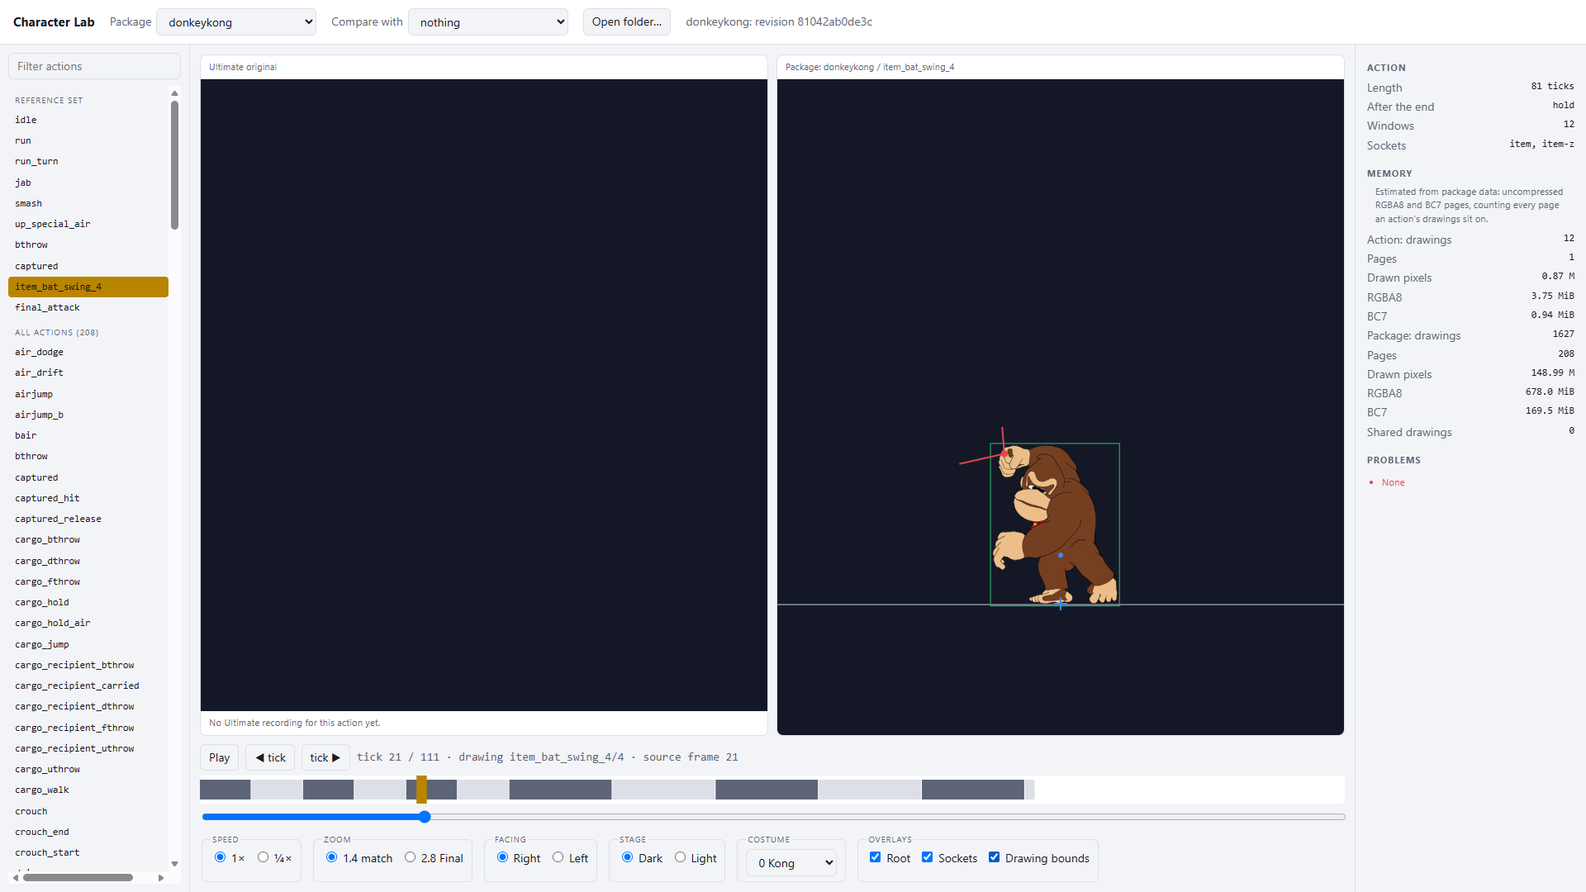
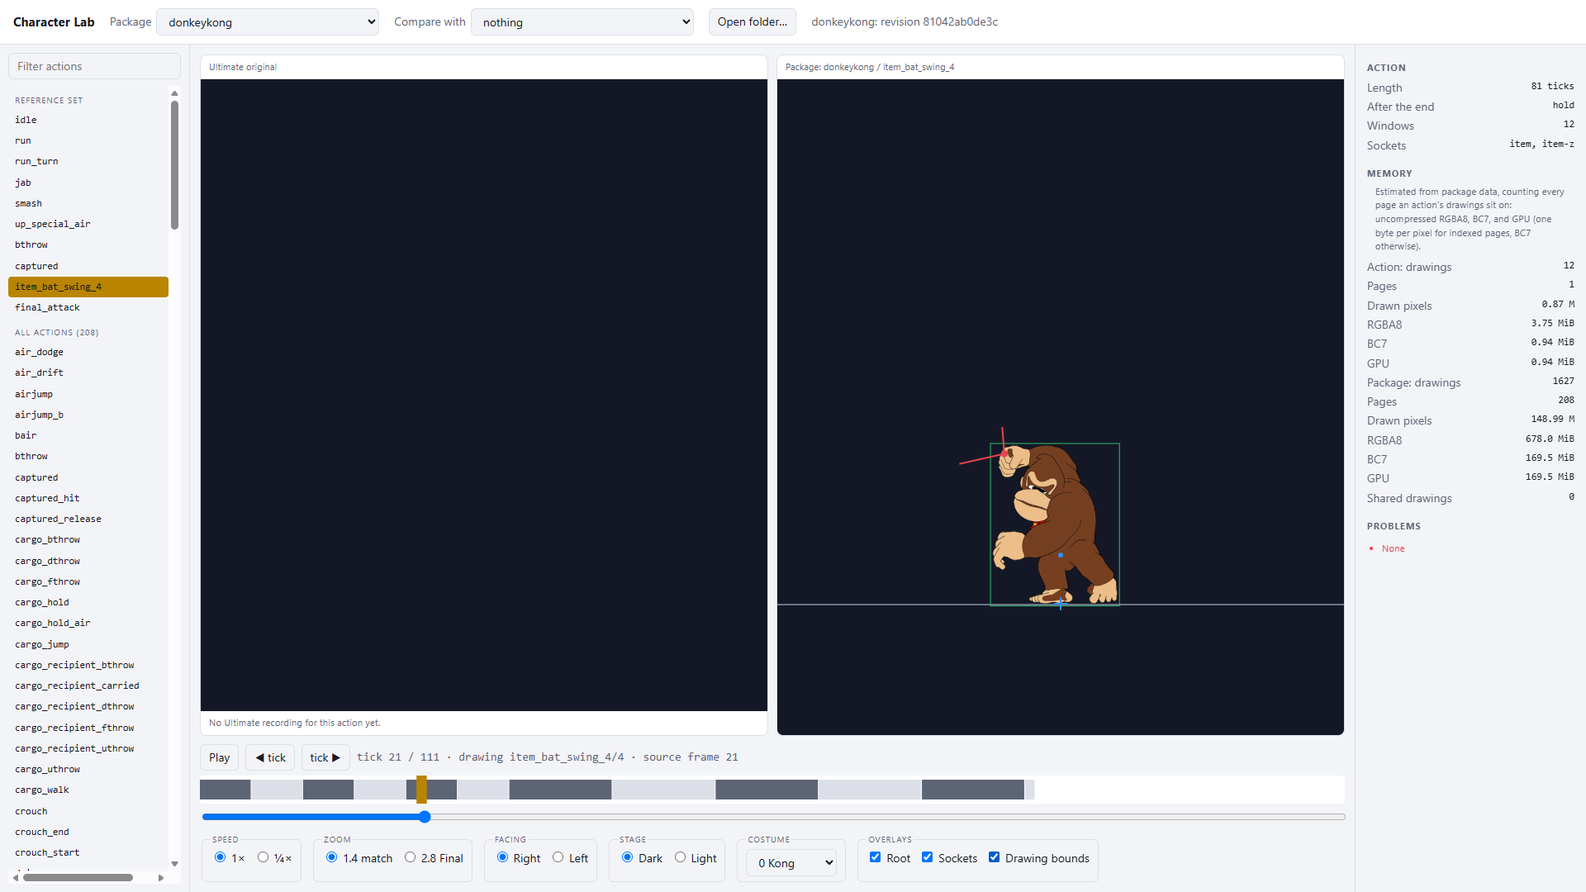
Add indexed pages and a per-character palette to the character format
An indexed page is a greyscale PNG of palette entries (one byte per pixel
on the GPU); the package palette holds up to 256 #rrggbbaa colours with
entry 0 transparent. Costumes move palette entries with the same maths as
the recolour shader (recolorColor, costumePalette), so a costume is a
palette swap. The memory estimate prices indexed pages at one byte per
pixel; the shrink candidate writes indexed pages; the lab draws them
through the costume palette. Lab probe: three indexed views in Edge.

Claude-Session: https://claude.ai/code/session_01WUcMmi5fdmZRB8TpujF7aD

diff --git a/character/package/validate.ts b/character/package/validate.ts
@@ -7,7 +7,7 @@ export function validatePackage(value: unknown): string[] {
   if (!isObject(value)) return ['package: not an object'];
   const pkg = value as unknown as CharacterPackage;
 
-  allowKeys(value, ['schema', 'id', 'revision', 'pages', 'drawings', 'actions', 'costumes', 'provenance', 'extensions'], 'package', fail);
+  allowKeys(value, ['schema', 'id', 'revision', 'pages', 'drawings', 'actions', 'costumes', 'palette', 'provenance', 'extensions'], 'package', fail);
   if (pkg.schema !== PACKAGE_SCHEMA) fail('schema', `expected ${PACKAGE_SCHEMA}`);
   if (!isText(pkg.id)) fail('id', 'missing');
   if (typeof pkg.revision !== 'string') fail('revision', 'missing');
@@ -18,7 +18,9 @@ export function validatePackage(value: unknown): string[] {
   const pages = records(pkg.pages, 'pages', fail);
   for (const [id, page] of pages) {
     const path = `pages.${id}`;
-    allowKeys(page, ['file', 'width', 'height', 'sha256'], path, fail);
+    allowKeys(page, ['file', 'width', 'height', 'sha256', 'format'], path, fail);
+    if (page.format !== undefined && page.format !== 'indexed') fail(`${path}.format`, 'must be indexed when present');
+    if (page.format === 'indexed' && pkg.palette === undefined) fail(`${path}.format`, 'an indexed page needs the package palette');
     if (!isText(page.file) || page.file.startsWith('/') || page.file.split('/').includes('..')) fail(`${path}.file`, 'must be a relative path inside the package');
     if (!isCount(page.width) || !isCount(page.height)) fail(path, 'width and height must be positive integers');
     if (typeof page.sha256 !== 'string' || !/^[0-9a-f]{64}$/.test(page.sha256)) fail(`${path}.sha256`, 'must be 64 lowercase hex digits');
@@ -69,6 +71,7 @@ export function validatePackage(value: unknown): string[] {
   }
   for (const [id] of drawings) if (!usedDrawings.has(id)) fail(`drawings.${id}`, 'no action shows this drawing');
   if (pkg.costumes !== undefined) checkCostumes(pkg.costumes, fail);
+  if (pkg.palette !== undefined) checkPalette(pkg.palette, fail);
   return errors;
 }
 
@@ -98,6 +101,12 @@ function checkCostumes(costumes: Costumes, fail: Fail): void {
     for (const slot of slots) if (!isColor(costume.slots[slot])) fail(`${at}.slots.${slot}`, 'must be #rrggbb');
     for (const slot of Object.keys(costume.slots)) if (!slots.has(slot)) fail(`${at}.slots.${slot}`, 'no region uses this slot');
   });
+}
+
+function checkPalette(palette: readonly string[], fail: Fail): void {
+  if (!Array.isArray(palette) || palette.length < 2 || palette.length > 256) { fail('palette', 'needs 2 to 256 colours'); return; }
+  palette.forEach((color, i) => { if (typeof color !== 'string' || !/^#[0-9a-f]{8}$/.test(color)) fail(`palette[${i}]`, 'must be #rrggbbaa'); });
+  if (palette[0] !== '#00000000') fail('palette[0]', 'must be transparent (#00000000)');
 }
 
 type Fail = (path: string, message: string) => void;

diff --git a/character/candidates/output.ts b/character/candidates/output.ts
@@ -25,10 +25,10 @@ export function readCandidateSource(usage: string): CandidateSource {
 /**
  * Writes `<id>~<name>` beside the source: the package built by `pack` into the new
  * folder, with a revision and provenance, and a candidate-report.json comparing it with
- * the source. `gpuBytes` prices the pages (BC7 unless the candidate stores them otherwise).
+ * the source.
  */
 export async function writeCandidate(source: CandidateSource, name: string, importer: { name: string; version: string },
-  settings: Record<string, unknown>, pack: (dir: string) => CharacterPackage, gpuBytes = (m: MemoryEstimate) => m.bc7Bytes): Promise<void> {
+  settings: Record<string, unknown>, pack: (dir: string) => CharacterPackage): Promise<void> {
   const dir = path.join(source.root, `${source.id}~${name}`);
   rmSync(dir, { recursive: true, force: true });
   mkdirSync(path.join(dir, 'pages'), { recursive: true });
@@ -36,7 +36,7 @@ export async function writeCandidate(source: CandidateSource, name: string, impo
     provenance: { importer, sources: { [`${source.id}/character.json`]: source.pkg.revision } } });
   const problems = validatePackage(packed);
   writeFileSync(path.join(dir, 'character.json'), canonicalJson(packed));
-  const row = (m: MemoryEstimate, gpu: number) => ({ drawings: m.drawings, pages: m.pages, drawnPixels: m.drawnPixels, rgbaBytes: m.rgbaBytes, bc7Bytes: m.bc7Bytes, gpuBytes: gpu });
+  const row = (m: MemoryEstimate) => ({ drawings: m.drawings, pages: m.pages, drawnPixels: m.drawnPixels, rgbaBytes: m.rgbaBytes, bc7Bytes: m.bc7Bytes, gpuBytes: m.gpuBytes });
   const actions = Object.keys(packed.actions).sort().map(action => ({ action,
     windows: [source.pkg.actions[action]!.drawings.windows.length, packed.actions[action]!.drawings.windows.length],
     drawings: [actionMemory(source.pkg, action).drawings, actionMemory(packed, action).drawings],
@@ -44,7 +44,7 @@ export async function writeCandidate(source: CandidateSource, name: string, impo
   const before = packageMemory(source.pkg), total = packageMemory(packed);
   writeFileSync(path.join(dir, 'candidate-report.json'), JSON.stringify({ schema: 'character-candidate/1', candidate: name,
     source: { id: source.id, revision: source.pkg.revision }, ...settings, problems,
-    source_memory: row(before, before.bc7Bytes), memory: row(total, gpuBytes(total)), actions }, null, 1) + '\n');
+    source_memory: row(before), memory: row(total), actions }, null, 1) + '\n');
   console.log(`${source.id}~${name}: ${total.drawings} drawings, ${(total.drawnPixels / 1e6).toFixed(1)} M drawn px, ` +
-    `GPU ${(gpuBytes(total) / 2 ** 20).toFixed(1)} MiB (source BC7 ${(before.bc7Bytes / 2 ** 20).toFixed(1)}), ${problems.length} problems`);
+    `GPU ${(total.gpuBytes / 2 ** 20).toFixed(1)} MiB (source ${(before.gpuBytes / 2 ** 20).toFixed(1)}), ${problems.length} problems`);
 }

diff --git a/character/candidates/shrinkCandidate.ts b/character/candidates/shrinkCandidate.ts
@@ -5,15 +5,13 @@
  * Reads <packages>/<id> and writes, beside it:
  *   <id>~small            every drawing shrunk to <zoom> screen px per design px on a
  *                         1080p screen (<final-zoom> for drawings only Finals show), BC7 priced;
- *   <id>~small-c<n>       the same, reduced to a palette of <n> entries (transparent included),
- *                         priced at ceil(log2 n) bits per page pixel. Pages stay RGBA so the
- *                         lab shows exactly the palette colours.
+ *   <id>~small-c<n>       the same, reduced to one palette of <n> entries (transparent included,
+ *                         at most 256) on indexed pages: one byte per pixel on the GPU.
  * Node only; no game code.
  */
-import type { MemoryEstimate } from '../package/memory';
 import type { Drawing, DrawingId } from '../package/types';
 import { readCandidateSource, writeCandidate } from './output';
-import { fitPalette, indexBits, quantize } from './palette';
+import { encodeIndexed, fitPalette, paletteColors, quantize } from './palette';
 import { crop, packDrawings, readPage } from './pixels';
 import { shrink } from './resample';
 import type { PNG } from 'pngjs';
@@ -21,7 +19,8 @@ import type { PNG } from 'pngjs';
 const input = readCandidateSource('shrinkCandidate.ts <id> [--zoom 1.4] [--final-zoom 2.8] [--colors 256] [--packages dir]');
 const zoom = Number(input.option('--zoom') ?? 1.4), finalZoom = Number(input.option('--final-zoom') ?? 2.8);
 const colors = (input.option('--colors') ?? '256').split(',').map(Number);
-const IMPORTER = { name: 'shrink candidate', version: '1' };
+if (colors.some(n => !(n >= 2 && n <= 256))) throw new Error('--colors must be between 2 and 256');
+const IMPORTER = { name: 'shrink candidate', version: '2' };
 const isFinal = (action: string) => action.includes('final') && !action.includes('victim');
 
 // A drawing shown by any ordinary action is stored for the ordinary zoom.
@@ -46,7 +45,7 @@ const settings = { zoom, finalZoom };
 await writeCandidate(input, 'small', IMPORTER, settings, dir => packDrawings(resized, dir, id => shrunk.get(id)!.image));
 for (const size of colors) {
   const palette = fitPalette([...shrunk.values()].map(s => s.image), size);
-  await writeCandidate(input, `small-c${size}`, IMPORTER, { ...settings, colors: size, palette },
-    dir => packDrawings(resized, dir, id => quantize(shrunk.get(id)!.image, palette)),
-    (m: MemoryEstimate) => Math.ceil(m.pagePixels * indexBits(size) / 8));
+  await writeCandidate(input, `small-c${size}`, IMPORTER, { ...settings, colors: size },
+    dir => ({ ...packDrawings(resized, dir, id => quantize(shrunk.get(id)!.image, palette), { format: 'indexed', encode: encodeIndexed }),
+      palette: paletteColors(palette) }));
 }

diff --git a/character/lab/packageView.ts b/character/lab/packageView.ts
@@ -1,4 +1,5 @@
 import type { Drawing } from '../package/types';
+import { costumePalette } from '../render/palette';
 import { costumeShifts, type HsvShift } from '../render/recolor';
 import { RecolorCanvas } from './recolorCanvas';
 import type { OpenPackage } from './source';
@@ -8,6 +9,8 @@ import type { DrawingPixels } from './stage';
 export class PackageView {
   private readonly images = new Map<string, HTMLImageElement>();
   private readonly shifts = new Map<number, HsvShift[]>();
+  /** Indexed pages turned into colours, per page and costume. */
+  private readonly coloured = new Map<string, HTMLCanvasElement>();
   private recolorer: RecolorCanvas | null = null;
 
   constructor(readonly open: OpenPackage, private readonly onImageLoad: () => void) {}
@@ -16,10 +19,30 @@ export class PackageView {
 
   /** The drawing in costume `costume`: its page as is, or a recoloured copy. */
   pixels(drawing: Drawing, costume: number): DrawingPixels | undefined {
+    if (this.pkg.pages[drawing.page]?.format === 'indexed') {
+      const page = this.indexedPage(drawing.page, costume);
+      return page && { image: page, rect: drawing.rect };
+    }
     const image = this.page(drawing.page), shifts = this.costumeShifts(costume);
     if (!image || shifts.length === 0) return image && { image, rect: drawing.rect };
     this.recolorer ??= new RecolorCanvas();
     return { image: this.recolorer.draw(image, drawing.rect, shifts), rect: [0, 0, drawing.rect[2], drawing.rect[3]] };
+  }
+
+  /** An indexed page drawn through the costume's palette (the lab's stand-in for the game's palette shader). */
+  private indexedPage(page: string, costume: number): HTMLCanvasElement | undefined {
+    const key = `${page}\n${costume}`, cached = this.coloured.get(key);
+    if (cached) return cached;
+    const image = this.page(page);
+    if (!image) return undefined;
+    const canvas = Object.assign(document.createElement('canvas'), { width: image.naturalWidth, height: image.naturalHeight });
+    const ctx = canvas.getContext('2d', { willReadFrequently: true })!;
+    ctx.drawImage(image, 0, 0);
+    const pixels = ctx.getImageData(0, 0, canvas.width, canvas.height), palette = costumePalette(this.pkg, costume);
+    for (let i = 0; i < pixels.data.length; i += 4) pixels.data.set(palette.subarray(pixels.data[i]! * 4, pixels.data[i]! * 4 + 4), i);
+    ctx.putImageData(pixels, 0, 0);
+    this.coloured.set(key, canvas);
+    return canvas;
   }
 
   private costumeShifts(costume: number): HsvShift[] {

diff --git a/character/render/recolor.ts b/character/render/recolor.ts
@@ -16,11 +16,41 @@ export interface HsvShift {
 }
 
 function hsv(hex: string): [number, number, number] {
-  const color = parseInt(hex.slice(1), 16);
-  const r = (color >> 16 & 255) / 255, g = (color >> 8 & 255) / 255, b = (color & 255) / 255;
+  const color = parseInt(hex.slice(1, 7), 16);
+  return rgbToHsv((color >> 16 & 255) / 255, (color >> 8 & 255) / 255, (color & 255) / 255);
+}
+
+function rgbToHsv(r: number, g: number, b: number): [number, number, number] {
   const max = Math.max(r, g, b), d = max - Math.min(r, g, b);
   const h = d === 0 ? 0 : max === r ? ((g - b) / d + 6) % 6 : max === g ? (b - r) / d + 2 : (r - g) / d + 4;
   return [h / 6, max === 0 ? 0 : d / max, max];
+}
+
+function hsvToRgb(h: number, s: number, v: number): [number, number, number] {
+  const channel = (offset: number) => {
+    const p = Math.abs((((h + offset) % 1) + 1) % 1 * 6 - 3);
+    return v * (1 + (Math.min(1, Math.max(0, p - 1)) - 1) * s);
+  };
+  return [channel(1), channel(2 / 3), channel(1 / 3)];
+}
+
+/**
+ * One straight-alpha colour (each channel 0..1) recoloured by `shifts`: the same
+ * maths as `recolor()` in `RECOLOR_GLSL`, applied to a palette entry instead of a texel.
+ */
+export function recolorColor([r, g, b, a]: readonly [number, number, number, number], shifts: readonly HsvShift[]): [number, number, number, number] {
+  if (shifts.length === 0 || a <= 0) return [r, g, b, a];
+  const [h, s, v] = rgbToHsv(r, g, b);
+  let best = Infinity, pick: HsvShift | undefined;
+  for (const shift of shifts.slice(0, MAX_COLOR_REGIONS)) {
+    const dh = Math.min(Math.abs(h - shift.key[0]), 1 - Math.abs(h - shift.key[0]));
+    const dist = Math.hypot(dh / shift.tolerance[0], Math.abs(s - shift.key[1]) / shift.tolerance[1], Math.abs(v - shift.key[2]) / shift.tolerance[2]);
+    if (dist < best) { best = dist; pick = shift; }
+  }
+  if (!pick || best >= 1) return [r, g, b, a];
+  const moved = hsvToRgb(((h + pick.hueShift) % 1 + 1) % 1, Math.min(1, Math.max(0, s * pick.saturationRatio)), Math.min(1, Math.max(0, v * pick.valueRatio)));
+  const edge = Math.min(1, Math.max(0, (best - 0.6) / 0.4)), weight = 1 - edge * edge * (3 - 2 * edge);
+  return [r + (moved[0] - r) * weight, g + (moved[1] - g) * weight, b + (moved[2] - b) * weight, a];
 }
 
 /**

diff --git a/character/candidates/palette.ts b/character/candidates/palette.ts
@@ -25,7 +25,10 @@ export function fitPalette(images: readonly PNG[], size: number, samples = 300_0
   return [[0, 0, 0, 0], ...centres.map(c => c.map(Math.round) as [number, number, number, number])];
 }
 
-/** The image with every pixel replaced by its nearest palette entry. */
+/**
+ * The image as palette indices: every pixel becomes its nearest entry, stored in R, G and
+ * B, with alpha 255 (0 for the transparent entry) so packing pads with entry 0.
+ */
 export function quantize(image: PNG, palette: Palette): PNG {
   const out = new PNG({ width: image.width, height: image.height }), cache = new Map<number, number>();
   const visible = palette.slice(1).map(e => [...e]);
@@ -36,15 +39,21 @@ export function quantize(image: PNG, palette: Palette): PNG {
       index = d[i * 4 + 3]! < CLEAR ? 0 : 1 + nearest(visible, premultiplied(d, i));
       cache.set(key, index);
     }
-    const [r, g, b, a] = palette[index]!;
-    out.data[i * 4] = a ? Math.round(r * 255 / a) : 0; out.data[i * 4 + 1] = a ? Math.round(g * 255 / a) : 0;
-    out.data[i * 4 + 2] = a ? Math.round(b * 255 / a) : 0; out.data[i * 4 + 3] = a;
+    out.data.fill(index, i * 4, i * 4 + 3); out.data[i * 4 + 3] = index ? 255 : 0;
   }
   return out;
 }
 
-/** Bits per pixel needed to index a palette of `size` entries. */
-export const indexBits = (size: number) => Math.ceil(Math.log2(size));
+/** The palette as the package stores it: `#rrggbbaa`, straight alpha. */
+export const paletteColors = (palette: Palette): string[] => palette.map(([r, g, b, a]) =>
+  '#' + [a ? r * 255 / a : 0, a ? g * 255 / a : 0, a ? b * 255 / a : 0, a].map(c => Math.round(Math.min(255, c)).toString(16).padStart(2, '0')).join(''));
+
+/** An index image (from `quantize`) as a greyscale PNG, the file format of an indexed page. */
+export function encodeIndexed(page: PNG): Buffer {
+  const grey = Buffer.alloc(page.width * page.height);
+  for (let i = 0; i < grey.length; i++) grey[i] = page.data[i * 4]!;
+  return PNG.sync.write({ width: page.width, height: page.height, data: grey } as PNG, { colorType: 0, inputColorType: 0, inputHasAlpha: false });
+}
 
 const premultiplied = (data: Buffer, i: number): number[] => {
   const a = data[i * 4 + 3]!;

diff --git a/character/candidates/palette.test.ts b/character/candidates/palette.test.ts
@@ -1,6 +1,6 @@
 import { PNG } from 'pngjs';
 import { describe, expect, it } from 'vitest';
-import { fitPalette, indexBits, quantize } from './palette';
+import { encodeIndexed, fitPalette, paletteColors, quantize } from './palette';
 
 const image = (pixels: number[][]) => {
   const png = new PNG({ width: pixels.length, height: 1 });
@@ -13,13 +13,19 @@ describe('palette', () => {
     const png = image([[200, 30, 30, 255], [30, 200, 30, 255], [30, 30, 200, 255], [9, 9, 9, 3]]);
     const palette = fitPalette([png], 4);
     expect(palette[0]).toEqual([0, 0, 0, 0]);
-    expect([...quantize(png, palette).data]).toEqual([200, 30, 30, 255, 30, 200, 30, 255, 30, 30, 200, 255, 0, 0, 0, 0]);
+    const indices = quantize(png, palette), entry = (i: number) => indices.data[i * 4]!;
+    expect([0, 1, 2].map(i => paletteColors(palette)[entry(i)])).toEqual(['#c81e1eff', '#1ec81eff', '#1e1ec8ff']);
+    expect([...indices.data.slice(12)]).toEqual([0, 0, 0, 0]);
+  });
+  it('encodes indices as a greyscale PNG that reads back to the same values', () => {
+    const indices = quantize(image([[200, 30, 30, 255], [0, 0, 0, 0]]), [[0, 0, 0, 0], [200, 30, 30, 255]]);
+    const back = PNG.sync.read(encodeIndexed(indices));
+    expect([back.data[0], back.data[4]]).toEqual([1, 0]);
   });
   it('merges colours when the palette is smaller', () => {
     const png = image([[100, 100, 100, 255], [104, 104, 104, 255], [250, 250, 250, 255]]);
-    const out = quantize(png, fitPalette([png], 3));
+    const palette = fitPalette([png], 3), out = quantize(png, palette);
     expect(out.data[0]).toBe(out.data[4]);
-    expect(out.data[8]).toBe(250);
+    expect(paletteColors(palette)[out.data[8]!]).toBe('#fafafaff');
   });
-  it('counts index bits', () => expect([16, 17, 32].map(indexBits)).toEqual([4, 5, 5]));
 });

diff --git a/character/candidates/pixels.ts b/character/candidates/pixels.ts
@@ -73,7 +73,8 @@ export function repack(pkg: CharacterPackage, sourceDir: string, outDir: string)
  * fresh pages grouped like the source pages, and returns the package pointing at them.
  * Each drawing keeps its fields except `rect`, which becomes the image's place.
  */
-export function packDrawings(pkg: CharacterPackage, outDir: string, image: (id: DrawingId, drawing: Drawing) => PNG): CharacterPackage {
+export function packDrawings(pkg: CharacterPackage, outDir: string, image: (id: DrawingId, drawing: Drawing) => PNG,
+  format?: { readonly format: 'indexed'; readonly encode: (page: PNG) => Buffer }): CharacterPackage {
   const byPage = new Map<PageId, DrawingId[]>();
   for (const [id, drawing] of Object.entries(pkg.drawings)) byPage.set(drawing.page, [...(byPage.get(drawing.page) ?? []), id]);
   const pages: Record<PageId, Page> = {}, drawings: Record<DrawingId, Drawing> = {};
@@ -88,9 +89,10 @@ export function packDrawings(pkg: CharacterPackage, outDir: string, image: (id: 
       PNG.bitblt(png, out, 0, 0, png.width, png.height, d.x + PADDING, d.y + PADDING);
       drawings[d.id] = { ...pkg.drawings[d.id]!, rect: [d.x + PADDING, d.y + PADDING, png.width, png.height] };
     }
-    const file = `pages/${pageId}.png`, bytes = PNG.sync.write(out);
+    const file = `pages/${pageId}.png`, bytes = format ? format.encode(out) : PNG.sync.write(out);
     writeFileSync(path.join(outDir, file), bytes);
-    pages[pageId] = { file, width: out.width, height: out.height, sha256: createHash('sha256').update(bytes).digest('hex') };
+    pages[pageId] = { file, width: out.width, height: out.height, sha256: createHash('sha256').update(bytes).digest('hex'),
+      ...(format ? { format: format.format } : {}) };
   }
   return { ...pkg, pages, drawings };
 }

diff --git a/character/package/memory.ts b/character/package/memory.ts
@@ -10,8 +10,8 @@ export interface MemoryEstimate {
   readonly rgbaBytes: number;
   /** The same pages as BC7 (16 bytes per 4×4 block). */
   readonly bc7Bytes: number;
-  /** Pixels of every page counted, for formats priced per pixel (such as palette indices). */
-  readonly pagePixels: number;
+  /** What the pages occupy on the GPU: one byte per pixel for indexed pages, BC7 for RGBA pages. */
+  readonly gpuBytes: number;
 }
 
 const pageBytes = (width: number, height: number) => ({
@@ -45,12 +45,13 @@ function estimate(pkg: CharacterPackage, ids: ReadonlySet<string>): MemoryEstima
     pages.add(drawing.page);
     drawnPixels += drawing.rect[2] * drawing.rect[3];
   }
-  let rgbaBytes = 0, bc7Bytes = 0, pagePixels = 0;
+  let rgbaBytes = 0, bc7Bytes = 0, gpuBytes = 0;
   for (const id of pages) {
     const page = pkg.pages[id];
     if (!page) continue;
     const bytes = pageBytes(page.width, page.height);
-    rgbaBytes += bytes.rgba; bc7Bytes += bytes.bc7; pagePixels += page.width * page.height;
+    rgbaBytes += bytes.rgba; bc7Bytes += bytes.bc7;
+    gpuBytes += page.format === 'indexed' ? page.width * page.height : bytes.bc7;
   }
-  return { drawings: ids.size, pages: pages.size, drawnPixels, rgbaBytes, bc7Bytes, pagePixels };
+  return { drawings: ids.size, pages: pages.size, drawnPixels, rgbaBytes, bc7Bytes, gpuBytes };
 }

diff --git a/character/package/package.test.ts b/character/package/package.test.ts
@@ -44,6 +44,15 @@ describe('validatePackage', () => {
     expect(validatePackage(edit(p => { p.costumes.regions = Array(5).fill(p.costumes.regions[0]); }))).toEqual(['costumes.regions: needs 1 to 4 regions']);
     expect(validatePackage(edit(p => { p.costumes.regions[0].tolerance = [0.1, 0, 0.1]; }))).toEqual(['costumes.regions[0].tolerance: must be three positive numbers']);
   });
+
+  it('checks indexed pages and the palette', () => {
+    expect(validatePackage(edit(p => { p.pages.p0.format = 'indexed'; p.palette = ['#00000000', '#704023ff']; }))).toEqual([]);
+    expect(validatePackage(edit(p => { p.pages.p0.format = 'indexed'; }))).toEqual(['pages.p0.format: an indexed page needs the package palette']);
+    expect(validatePackage(edit(p => { p.pages.p0.format = 'rgb'; }))).toEqual(['pages.p0.format: must be indexed when present']);
+    expect(validatePackage(edit(p => { p.palette = ['#704023ff', '#704023ff']; }))).toEqual(['palette[0]: must be transparent (#00000000)']);
+    expect(validatePackage(edit(p => { p.palette = ['#00000000', '#704023']; }))).toEqual(['palette[1]: must be #rrggbbaa']);
+    expect(validatePackage(edit(p => { p.palette = Array(257).fill('#00000000'); }))).toEqual(['palette: needs 2 to 256 colours']);
+  });
 });
 
 describe('canonical form', () => {

diff --git a/character/package/types.ts b/character/package/types.ts
@@ -26,6 +26,11 @@ export interface CharacterPackage {
   readonly actions: Readonly<Record<ActionId, Action>>;
   /** Alternate colourings of the same drawings. Absent: the character is shown only as drawn. */
   readonly costumes?: Costumes;
+  /**
+   * Colours of `indexed` pages as `#rrggbbaa` (straight alpha), at most 256. Entry 0 is
+   * transparent. Costumes recolour these entries rather than the pixels.
+   */
+  readonly palette?: readonly string[];
   readonly provenance: Provenance;
   /** Data only one host understands, keyed by a versioned host name. Never read by the core. */
   readonly extensions?: Readonly<Record<string, unknown>>;
@@ -37,6 +42,11 @@ export interface Page {
   readonly width: number;
   readonly height: number;
   readonly sha256: string;
+  /**
+   * `indexed`: a greyscale PNG whose value is the pixel's entry in the package palette
+   * (one byte per pixel on the GPU). Absent: an RGBA PNG.
+   */
+  readonly format?: 'indexed';
 }
 
 /** One stored drawing: a rectangle of a page, placed by its root anchor. */

diff --git a/character/render/palette.ts b/character/render/palette.ts
@@ -1,0 +1,17 @@
+import type { CharacterPackage } from '../package/types';
+import { costumeShifts, recolorColor } from './recolor';
+
+/**
+ * The package palette in costume `costume`, as straight RGBA bytes (4 per entry), ready
+ * for a 1D lookup texture. Costume 0 is the palette as drawn; other costumes move the
+ * entries with the same colour shifts the costume applies to RGBA art.
+ */
+export function costumePalette(pkg: CharacterPackage, costume: number): Uint8Array {
+  const colors = pkg.palette ?? [], shifts = costumeShifts(pkg.costumes, costume), out = new Uint8Array(colors.length * 4);
+  colors.forEach((hex, i) => {
+    const value = parseInt(hex.slice(1), 16) >>> 0;
+    const rgba = [value >>> 24 & 255, value >>> 16 & 255, value >>> 8 & 255, value & 255].map(c => c / 255) as [number, number, number, number];
+    recolorColor(rgba, shifts).forEach((c, k) => { out[i * 4 + k] = Math.round(c * 255); });
+  });
+  return out;
+}
